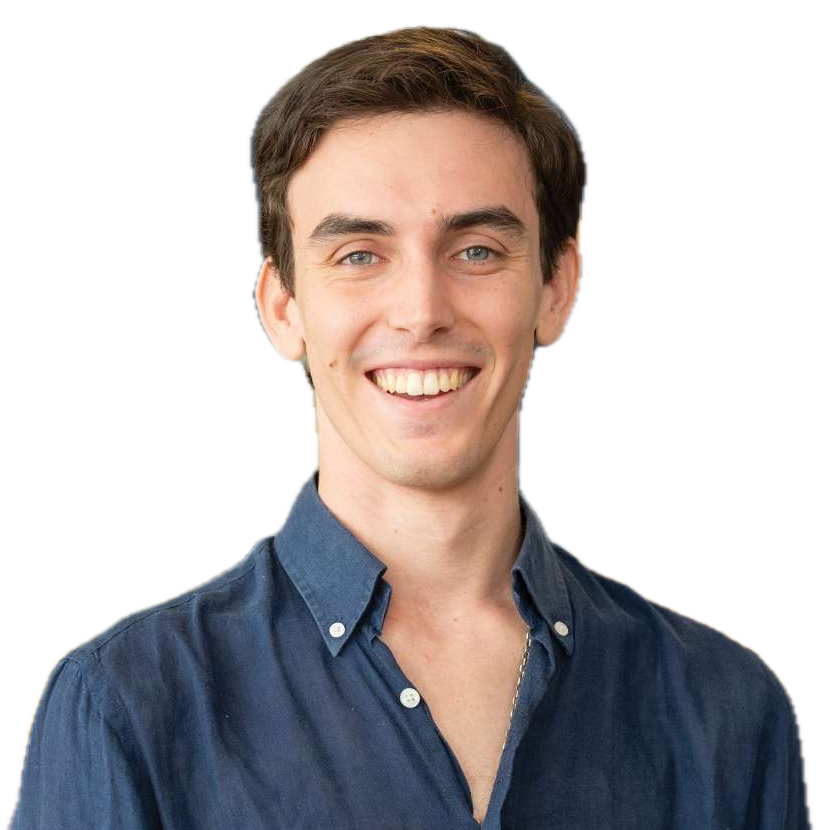
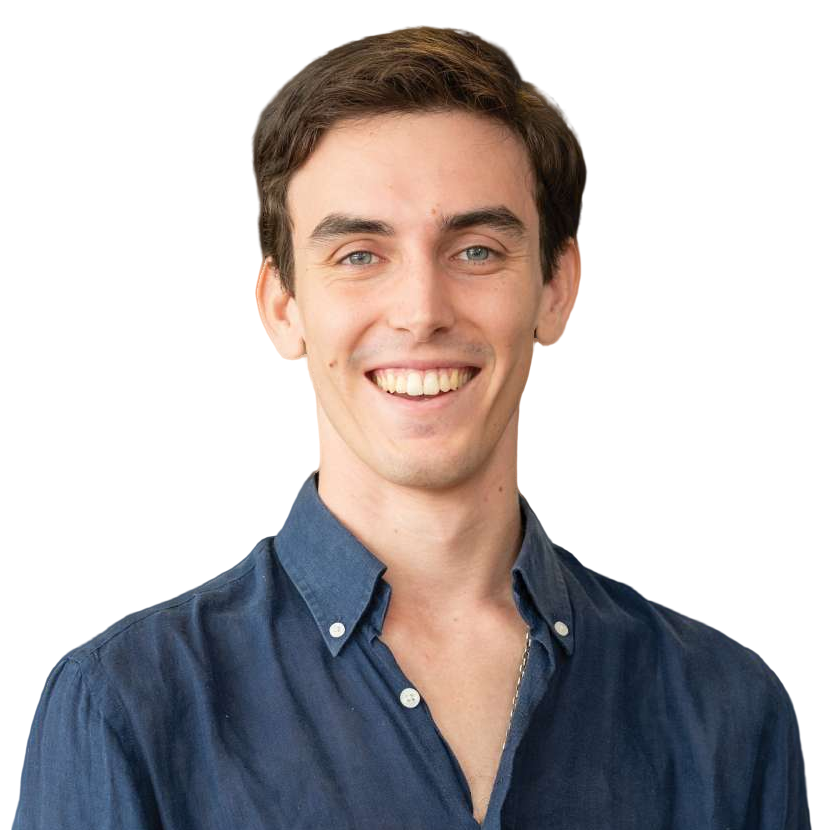
Founder photo: AI cutout in colour, no card behind it
Background removed with BiRefNet (portrait model) plus edge clean-up so no background colour or haze shows around the hair; the photo stands straight on the page in colour, its bottom edge fading out.

diff --git a/index.html b/index.html
@@ -198,10 +198,8 @@ button.node:hover{background:linear-gradient(180deg,#17171D,#0E0E12);box-shadow:
 @media (max-width:560px){.org-row.r6,.org-row.r5{grid-template-columns:repeat(2,minmax(0,1fr))}.node.ceo{min-width:0}}
 .founder{display:grid;grid-template-columns:minmax(0,.8fr) minmax(0,1.2fr);gap:64px;align-items:center;margin-top:120px}
 @media (max-width:900px){.founder{grid-template-columns:1fr;gap:36px;margin-top:80px}}
-.portrait{position:relative;justify-self:center;width:100%;max-width:440px;aspect-ratio:4/5;border-radius:var(--r);overflow:hidden;box-shadow:var(--shadow-hi);
-  background:radial-gradient(70% 55% at 50% 78%,rgba(255,255,255,.12),transparent 72%),linear-gradient(180deg,#16161B,#09090C)}
-.portrait img{position:absolute;left:50%;bottom:0;width:106%;height:auto;max-width:none;translate:-50% 0;transform-origin:50% 100%;filter:grayscale(1) contrast(1.06)}
-.portrait::after{content:"";position:absolute;inset:0;background:linear-gradient(180deg,transparent 62%,rgba(5,5,6,.55));pointer-events:none}
+.portrait{position:relative;justify-self:center;width:100%;max-width:440px;aspect-ratio:4/5}
+.portrait img{position:absolute;left:50%;bottom:0;width:106%;height:auto;max-width:none;translate:-50% 0;transform-origin:50% 100%;-webkit-mask-image:linear-gradient(#000 80%,transparent);mask-image:linear-gradient(#000 80%,transparent)}   /* the cut at the bottom fades out */
 .founder-text h2{font-size:clamp(28px,3.4vw,44px)}
 .founder-text p{margin:18px 0 0;color:var(--text-2);font-size:15.5px;line-height:1.62;max-width:62ch}
 .founder-text .label{margin:28px 0 -4px}
